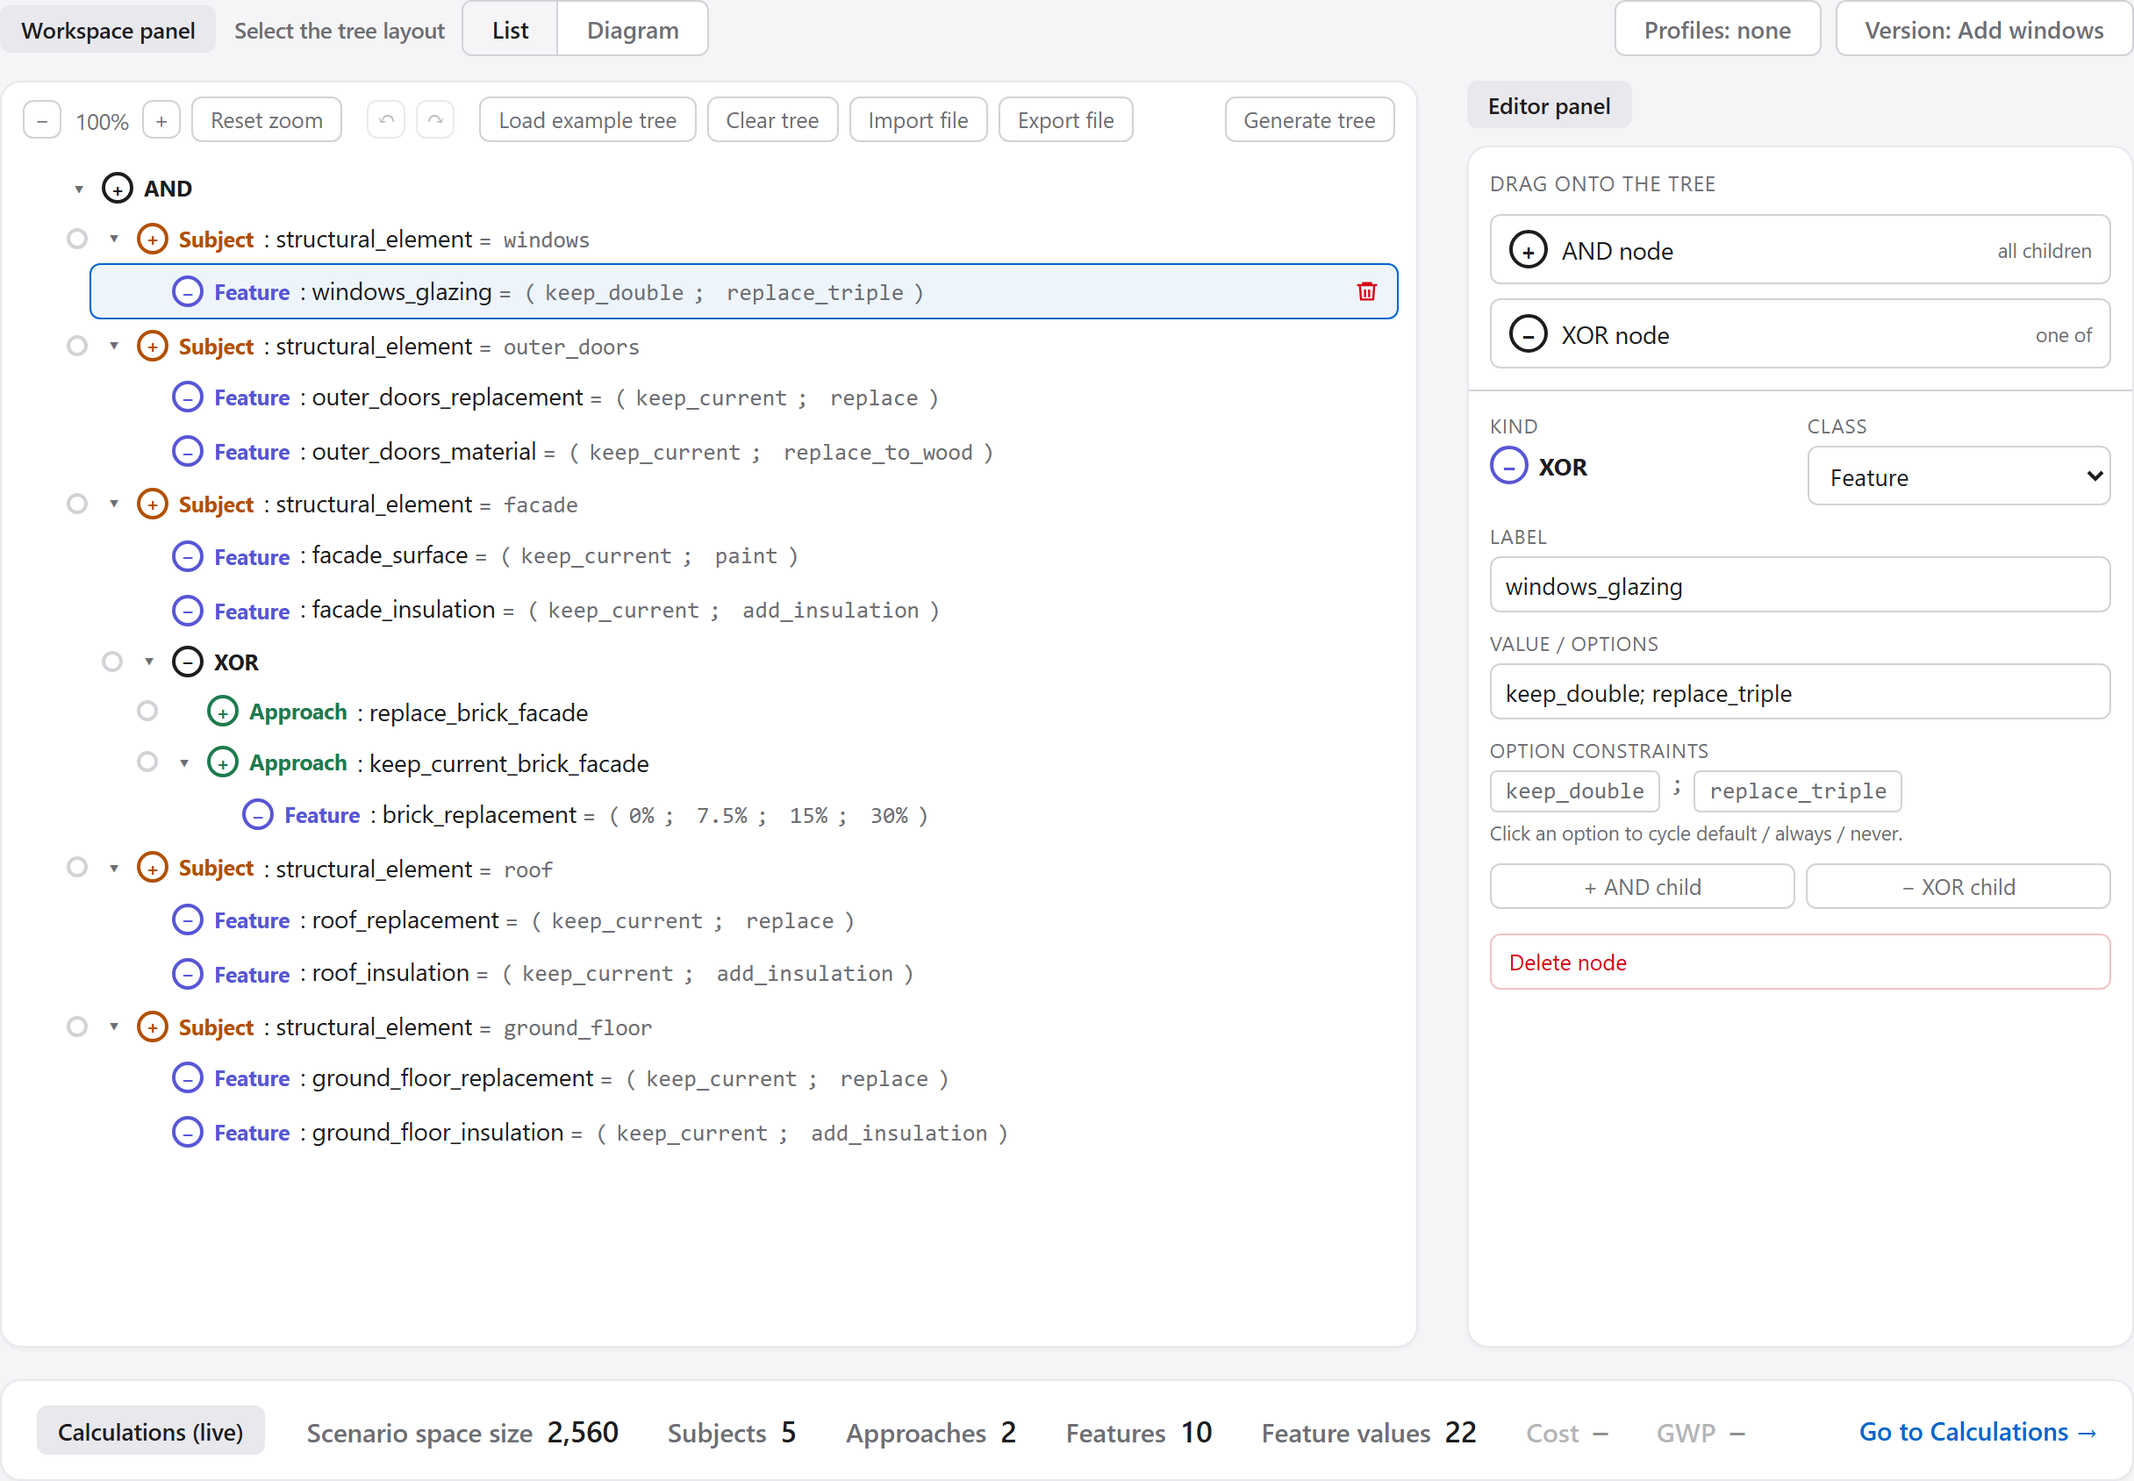
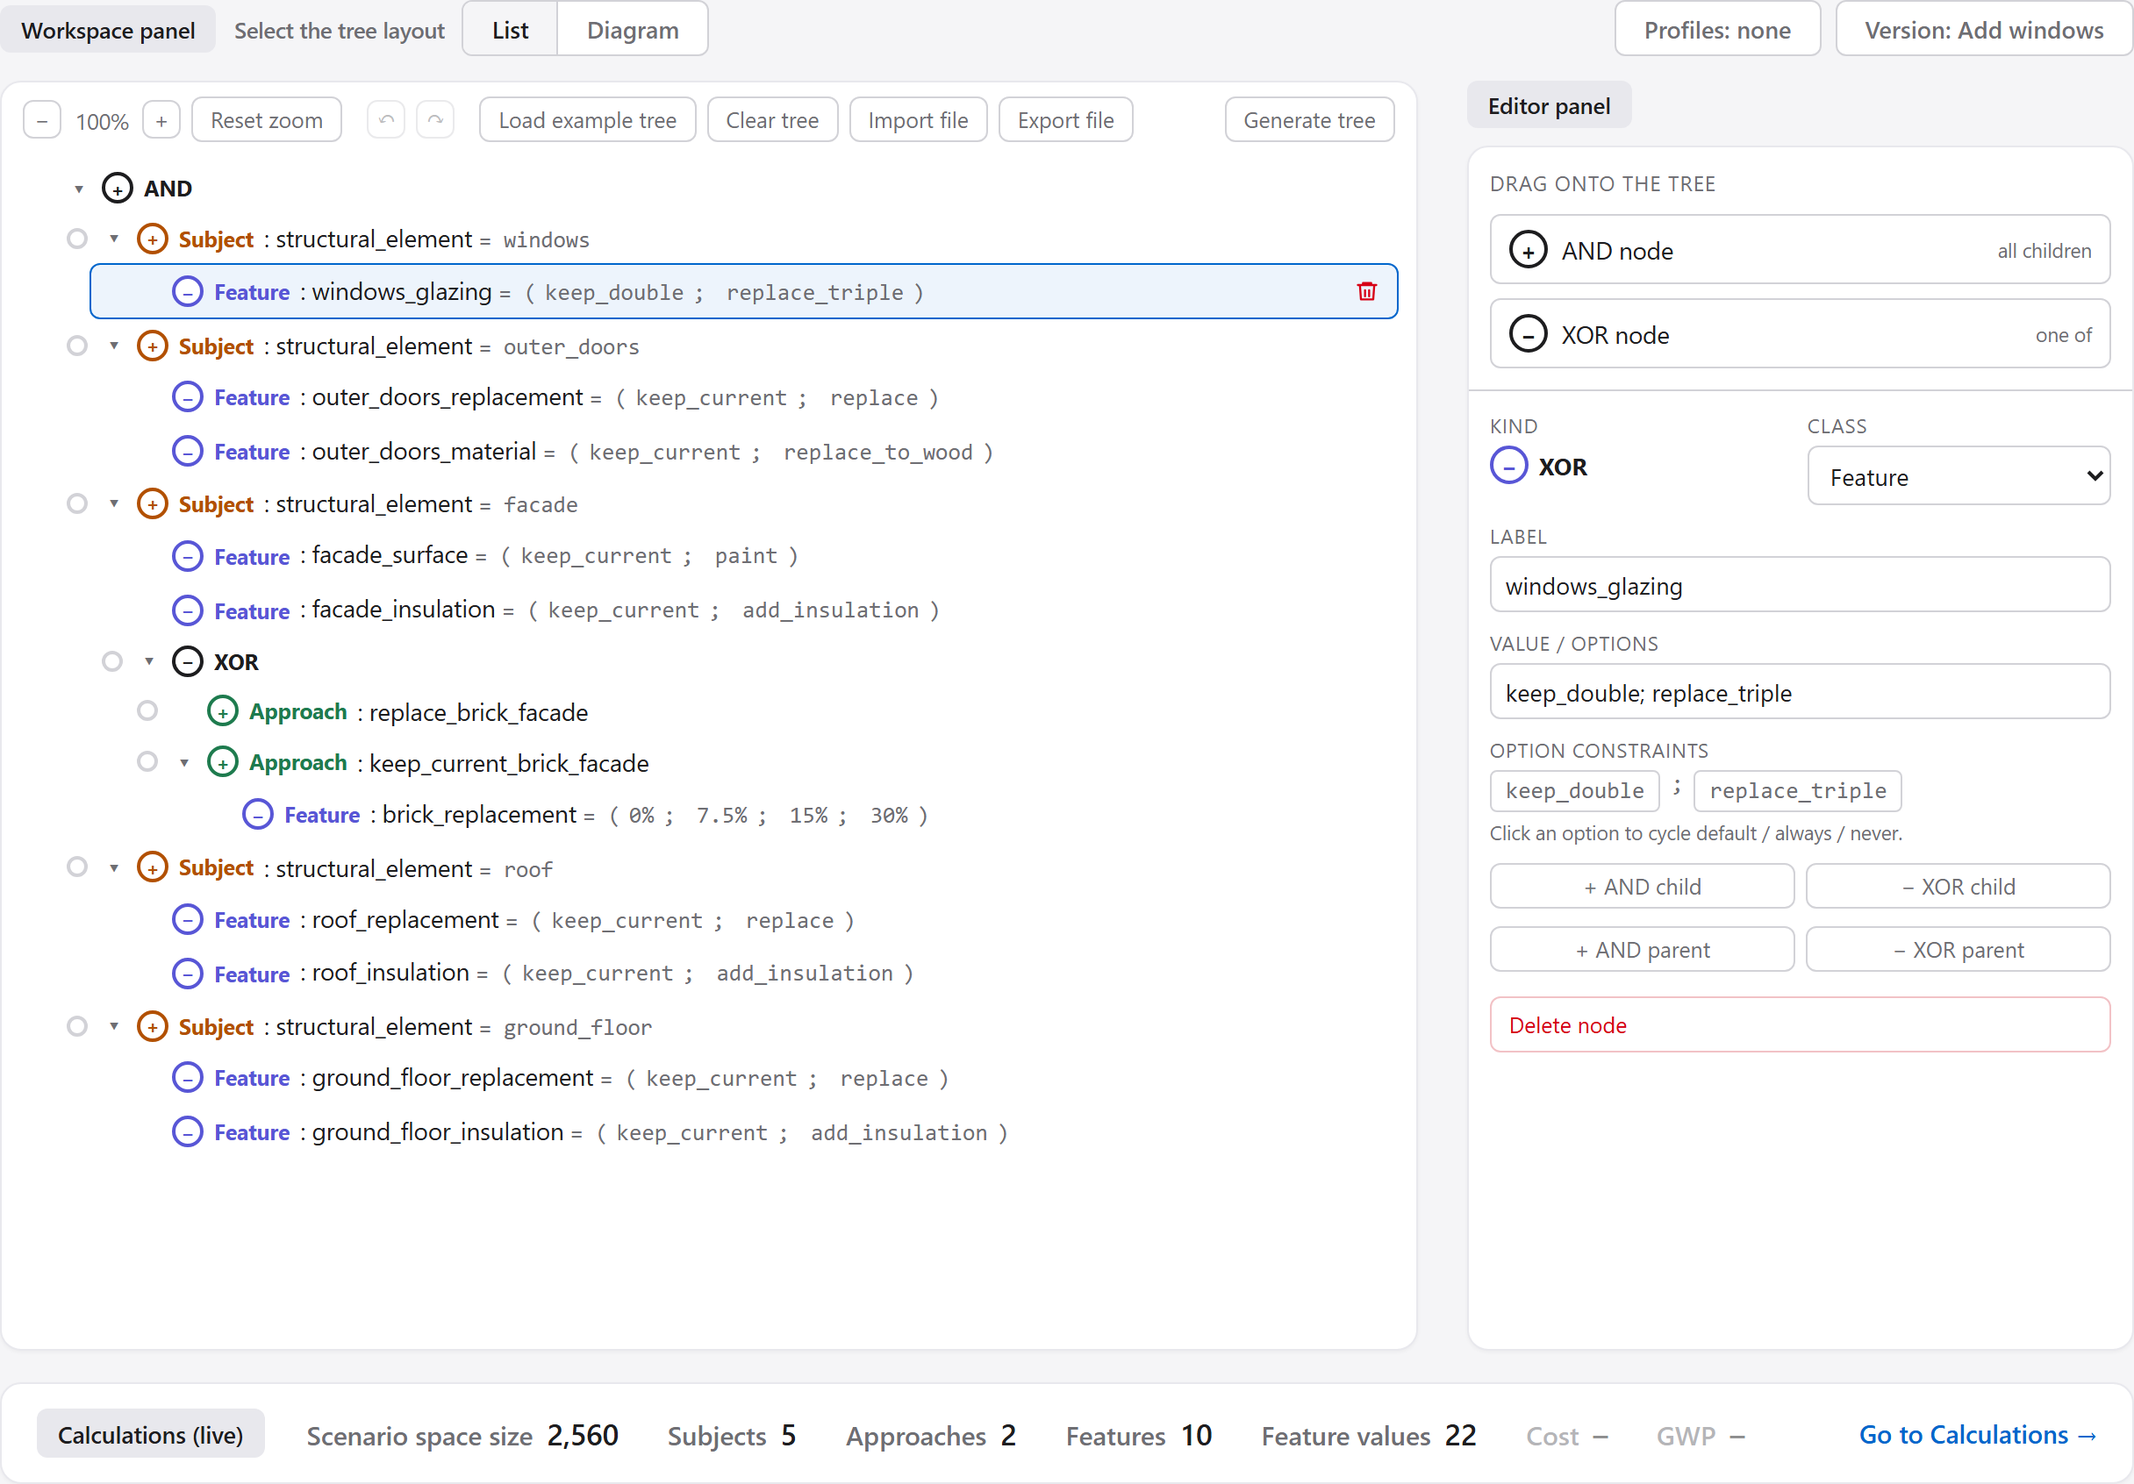
Update README, PNGs & CSS

diff --git a/index.html b/index.html
@@ -18,20 +18,20 @@
 		<img class="page-logo" src="resources/logos/renata-logo.svg" width="554" height="188"
 			alt="RENATA – Renovation action tree authoring" />
 	</h1>
-	<div class="tutorial-start">
-		<button id="quick-start-btn" class="tutorial-btn" type="button" aria-pressed="false" data-guide="quick-start"
-			title="See what the tool does in a few minutes, step by step">Quick start</button>
-		<button id="documentation-btn" class="tutorial-btn" type="button" aria-pressed="false" data-guide="tutorial"
-			title="Look up the details: action trees, profiles, versions, files, calculations and formulas">
-			Documentation
-		</button>
-	</div>
 	<nav class="tabs" role="tablist" aria-label="Editor sections">
 		<button class="tab active" type="button" role="tab" aria-selected="true"
 			data-tab="action-tree">Action tree</button>
 		<button class="tab" type="button" role="tab" aria-selected="false"
 			data-tab="calculations">Calculations</button>
 	</nav>
+	<div class="tutorial-start">
+		<button id="quick-start-btn" class="tutorial-btn" type="button" aria-pressed="false" data-guide="quick-start"
+			title="See what RENATA does in a few minutes, step by step">Quick start</button>
+		<button id="documentation-btn" class="tutorial-btn" type="button" aria-pressed="false" data-guide="tutorial"
+			title="Look up the details: action trees, profiles, versions, files, calculations and formulas">
+			Documentation
+		</button>
+	</div>
 </header>
 
 <main>
@@ -329,11 +329,11 @@
 		<div class="tutorial-body">
 			<div id="quick-start-text" class="tutorial-text quick-text">
 				<section>
-					<p class="quick-lead">See what the tool does in a few minutes.</p>
+					<p class="quick-lead">See what RENATA does in a few minutes.</p>
 					<div class="quick-cards">
 						<div class="quick-card">
-							<h3>Why this tool</h3>
-							<p>A building can be renovated in a great many ways. This tool lays them out, counts them
+							<h3>Why RENATA</h3>
+							<p>A building can be renovated in a great many ways. RENATA lays them out, counts them
 								and compares them.</p>
 						</div>
 						<div class="quick-card">
@@ -592,7 +592,7 @@
 						</a>
 					</div>
 					<p>
-						That's the tool. Every detail is in the
+						That's RENATA. Every detail is in the
 						<a id="quick-start-to-documentation" href="#tutorial">Documentation</a>.
 					</p>
 				</section>
@@ -615,7 +615,7 @@
 			<nav class="tutorial-contents" aria-label="Contents">
 				<p id="tutorial-basics-label" class="tutorial-contents-label">Basics</p>
 				<ol aria-labelledby="tutorial-basics-label">
-					<li><a href="#tutorial-purpose">What the tool is for</a></li>
+					<li><a href="#tutorial-purpose">What RENATA is for</a></li>
 					<li><a href="#tutorial-tips">Tips</a></li>
 					<li><a href="#tutorial-glossary">Glossary</a></li>
 				</ol>
@@ -633,9 +633,10 @@
 			</nav>
 			<div id="tutorial-text" class="tutorial-text">
 				<section id="tutorial-purpose">
-					<h3>What the tool is for</h3>
+					<h3>What RENATA is for</h3>
 					<p>
-						Renovating a building means choosing between a great many options. This tool builds on the
+						Renovating a building means choosing between a great many options.
+						<strong>RENATA</strong> (RENovation Action Tree Authoring) builds on the
 						<strong>Renovation Domain Model (NovaDM)</strong>, a formal modelling framework for supporting
 						renovation design and decision-making [<a href="#tutorial-ref-1">1</a>]. NovaDM defines six
 						core concepts (they are also in the <a href="#tutorial-glossary">Glossary</a>):
@@ -670,7 +671,7 @@
 						</figcaption>
 					</figure>
 					<p>
-						In this editor, the scenarios are described by an <a href="#tutorial-action-trees">action
+						In RENATA, the scenarios are described by an <a href="#tutorial-action-trees">action
 						tree</a>. All the scenarios together are the <strong>scenario space</strong>. Because the
 						choices multiply, it grows very fast: a handful of subjects gives thousands of scenarios,
 						and a real building easily more than 10<sup>34</sup>.
@@ -759,7 +760,7 @@
 						<dd>A calculated value whose formula is a single number, such as an area.</dd>
 						<dt>Feature</dt>
 						<dd>A parameter of the subject being targeted (e.g. Insulation Thickness, Glazing Type).
-							In this editor, a Feature node has a choice of options.</dd>
+							In RENATA, a Feature node has a choice of options.</dd>
 						<dt>KPI</dt>
 						<dd>Key performance indicator: a calculated value used to compare scenarios, such as
 							Cost or GWP (global warming potential, in CO&#8322; equivalents).</dd>
@@ -815,7 +816,7 @@
 					<figure class="tutorial-figure">
 						<a href="resources/tutorial/action-tree-tab.png" target="_blank" rel="noopener"
 							title="Open the image at full size">
-							<img src="resources/tutorial/action-tree-tab.png" width="1216" height="844"
+							<img src="resources/tutorial/action-tree-tab.png" width="1216" height="846"
 								alt="The Action tree tab: the example tree as an indented list, one node per line, with
 									windows_glazing selected and shown in the editor panel on the right." />
 						</a>
@@ -959,6 +960,10 @@
 						<li><strong>Add a child:</strong> <strong>+ AND child</strong> or <strong>&minus; XOR
 							child</strong> in the editor panel, or drag AND node or XOR node from the editor
 							panel onto a node.</li>
+						<li><strong>Add a parent:</strong> <strong>+ AND parent</strong> or <strong>&minus; XOR
+							parent</strong> in the editor panel puts a new, empty node above the selected node.
+							The new node joins the selected node's siblings and must be the same kind, so only
+							one of the two buttons may be available.</li>
 						<li><strong>Move a node:</strong> drag it onto its new parent; it becomes that node's last
 							child. Dropped on an empty part of the tree area, it goes to the end of the top level. A
 							short red flash means the move isn't allowed, for example an AND among XOR

diff --git a/styles/editor.css b/styles/editor.css
@@ -144,20 +144,22 @@ select {
 
 .tutorial-start {
 	display: flex;
-	grid-row: 1;
+	grid-row: 1 / 3;
 	grid-column: 3;
 	align-items: center;
+	align-self: center;
 	justify-self: end;
 	gap: 10px;
+	margin-top: -12px;
 }
 
 @media (max-width: 819px) {
 	.tutorial-start {
 		grid-row: 2;
 		grid-column: 2;
+		margin-top: 0;
 	}
 }
-
 
 .tutorial-btn {
 	padding: 5px 14px;
@@ -182,6 +184,19 @@ select {
 	grid-column: 1 / -1;
 	gap: 6px;
 	border-bottom: 1px solid var(--color-border);
+}
+
+@media (max-width: 559px) {
+	.tutorial-start {
+		grid-column: 1 / -1;
+		justify-self: start;
+		white-space: nowrap;
+	}
+
+	.tabs {
+		grid-row: 3;
+		white-space: nowrap;
+	}
 }
 
 .tab {

diff --git a/spec/action-tree-grammar.md b/spec/action-tree-grammar.md
@@ -351,8 +351,8 @@ reviewer arriving from the PROBONO dashboard. The **Documentation** is
 the detailed reference, for looking things up.
 
 - **Two buttons**, "Quick start" and "Documentation", sit at the top
-  right of the page, in the PROBONO logo's row. Each opens only its own guide in
-  the place of the two tabs (`data-guide` holds the panel's id:
+  right of the page, level with the RENATA logo. Each opens only its own
+  guide in the place of the two tabs (`data-guide` holds the panel's id:
   `#quick-start`, `#tutorial`; the Documentation's id and the `tutorial-`
   classes keep the feature's first name). The button shows pressed and
   neither tab is highlighted. "Back to the editor" or the button again
@@ -367,7 +367,7 @@ the detailed reference, for looking things up.
 - **Tab labels:** every Quick start part and every Documentation topic
   has a small grey label beside its heading saying which tab it is about
   ("Action tree tab", "Calculations tab", "Both tabs"; `.tutorial-where`).
-  What the tool is for, Tips and Glossary have none.
+  What RENATA is for, Tips and Glossary have none.
 - Both guides' text is plain HTML in `index.html`, so it works from
   `file://` and the browser's own find (Ctrl+F) searches it. It names
   every control as it reads on screen; note that the same button can read
@@ -377,7 +377,7 @@ the detailed reference, for looking things up.
 
 - **The model** is the SEEDS booklet, in logic rather than in form: an
   objective in the user's words, task-oriented steps, one sentence per
-  idea, very visual. It opens with three cards (Why this tool, Who it is
+  idea, very visual. It opens with three cards (Why RENATA, Who it is
   for, How to start) and the objective as a quote, followed by four
   parts: Build the tree, Watch the scenario space, Add numbers, read the
   KPIs, and Keep your work.
@@ -388,8 +388,7 @@ the detailed reference, for looking things up.
 - **The story** starts from Clear tree and types everything itself, two
   minor subjects of the NovaDM list (Windows and Solar shading) with made-up
   numbers, so it needs no local file and also works once the tool is
-  hosted. It names no product title ("the tool"), as the title will
-  change. Save as new version comes before Export file on purpose, so
+  hosted. Save as new version comes before Export file on purpose, so
   Export file asks nothing; Clear tree and Load example tree do ask, hence
   "then OK".
 - **The steps quote these numbers**: a scenario space size of 1, 2, 6
@@ -416,7 +415,7 @@ the detailed reference, for looking things up.
 - It has a **contents list** on the left and the text on the right, in
   sections without numbers (`<section id="tutorial-…">`, reached by plain
   `#` links, so links between sections need no code). The list has two
-  groups: **Basics** (What the tool is for, Tips, Glossary) and **Topics**
+  groups: **Basics** (What RENATA is for, Tips, Glossary) and **Topics**
   (Action trees, Starting a tree, Editing, Profiles, Versions, Files, The
   Calculations tab, Formulas), and the text follows that order. It marks
   the section at the top of the text, the last one once the text is
@@ -443,7 +442,7 @@ the detailed reference, for looking things up.
   NovaDM. Each topic explains in plain words and, where it helps, ends in
   a "Try it" box (nine in all) with a few steps on the example the editor
   opens with; the first says that Load example tree brings it back. What
-  the tool is for opens in plain words, says that the tool builds on
+  RENATA is for opens in plain words, says that RENATA builds on
   NovaDM, and takes NovaDM's six core concepts word for word from the
   NovaDM literature; the Glossary uses the same words for those concepts.
   Profiles shows the dot and the chip in their three states as a small
@@ -454,7 +453,7 @@ the detailed reference, for looking things up.
   over the page, and open at full size in a new tab when clicked. They
   are plain files in `resources/tutorial/` (`resources/` holds the site's
   images; the logos are in `resources/logos/`):
-  - `novadm-concepts.svg` (Figure 1, What the tool is for): NovaDM's six
+  - `novadm-concepts.svg` (Figure 1, What RENATA is for): NovaDM's six
     concepts as a UML diagram, redrawn by hand as SVG from Figure 5 of
     Schultz and Kamari (2025), the Documentation's reference [1];
   - screenshots of the editor on the example it opens with, taken in
@@ -484,9 +483,10 @@ the detailed reference, for looking things up.
 
 ## Page header
 
-- The page header is a grid that holds the logos and the tabs. The
-  **PROBONO logo** sits in the upper left corner, 12 px from the top
-  (`resources/logos/probono-logo.avif`, 48 px high), with the tabs
+- The page header is a grid that holds the logos, the tabs and the
+  guides' buttons. The **PROBONO logo** sits in the upper left corner,
+  12 px from the top (`resources/logos/probono-logo.avif`, 48 px high),
+  with the tabs
   10 px below it. The **RENATA logo** (`resources/logos/renata-logo.svg`,
   80 px high, inside the page's `<h1>`) is centred horizontally and spans
   both rows instead of taking a row of its own; vertically it is centred
@@ -494,11 +494,18 @@ the detailed reference, for looking things up.
   margin cancels the page's 12 px top padding). The logo SVGs are
   outlined (their letters are paths), so they need no font and no
   internet connection. The header is hidden in the report's PDF.
+- **The guides' buttons** sit at the right and span both rows with the
+  same top margin as the RENATA logo, so the two are centred on one line.
+  They reach into the tab bar's row, so they come after the tabs in the
+  HTML: the later element sits on top and takes the clicks.
 - **Zoomed in** (a page narrower than 820 CSS pixels, e.g. 300 % on a
   1,920 px wide screen), the RENATA logo would run into the tabs, so it
   moves up into the PROBONO logo's row, 48 px high and centred in the
-  space beside it, and the tabs keep their own row. It shrinks further
-  when even that row is too narrow (500 % on a 1,366 px screen). The rest
+  space beside it, and the tabs keep their own row, with the guides'
+  buttons at its right. On a page narrower than 560 CSS pixels (from about
+  400 % on a 1,920 px screen) the buttons get a row of their own above the
+  tabs, so they never cover them. The logo shrinks further when even its
+  row is too narrow (500 % on a 1,366 px screen). The rest
   of the page is only laid out for the sizes below; at such zoom levels
   it may scroll sideways.
 - The **tab icon** is the tree icon, cropped close so it reads at 16 px

diff --git a/README.md b/README.md
@@ -1,8 +1,8 @@
-# NovaDM action tree editor
+# RENATA – RENovation Action Tree Authoring
 
-Renovating a building means choosing between a great many options. This editor builds on the Renovation Domain Model (NovaDM), a formal modelling framework for supporting renovation design and decision-making. Lay out the options as an action tree, see how many scenarios they add up to, and compare those scenarios on cost, CO₂ and any other KPI.
+Renovating a building means choosing between a great many options. RENATA builds on the Renovation Domain Model (NovaDM), a formal modelling framework for supporting renovation design and decision-making. Lay out the options as an action tree, see how many scenarios they add up to, and compare those scenarios on cost, CO₂ and any other KPI.
 
-The editor was built as part of an MSc thesis at Aarhus University on visual authoring tools for renovation.
+RENATA was built as part of a joint MSc thesis at Aarhus University on visual authoring tools for renovation.
 
 ## Getting started
 
@@ -10,7 +10,7 @@ The editor was built as part of an MSc thesis at Aarhus University on visual aut
 2. Unzip the file.
 3. Open `index.html` in your browser.
 
-The editor opens with an example tree that uses made-up numbers. For a short walk-through, click **Quick start** at the top right of the page. **Documentation**, next to it, covers everything in detail.
+RENATA opens with an example tree that uses made-up numbers. For a short walk-through, click **Quick start** at the top right of the page. **Documentation**, next to it, covers everything in detail.
 
 Your work stays on your computer. Use **Export file** to save it as a `.json` file, and **Import file** to open it again.
 
@@ -43,7 +43,7 @@ spec/             Data model and file format
 
 ## Motivation
 
-This tool is inspired by a lack of NovaDM tangible tools and solves a specific problem: visualising and editing action trees. It is not a general-purpose tree editor, and it does not aim to be one.
+RENATA is inspired by a lack of NovaDM tangible tools and solves a specific problem: visualising and editing action trees. It is not a general-purpose tree editor, and it does not aim to be one.
 
 ## License
 
